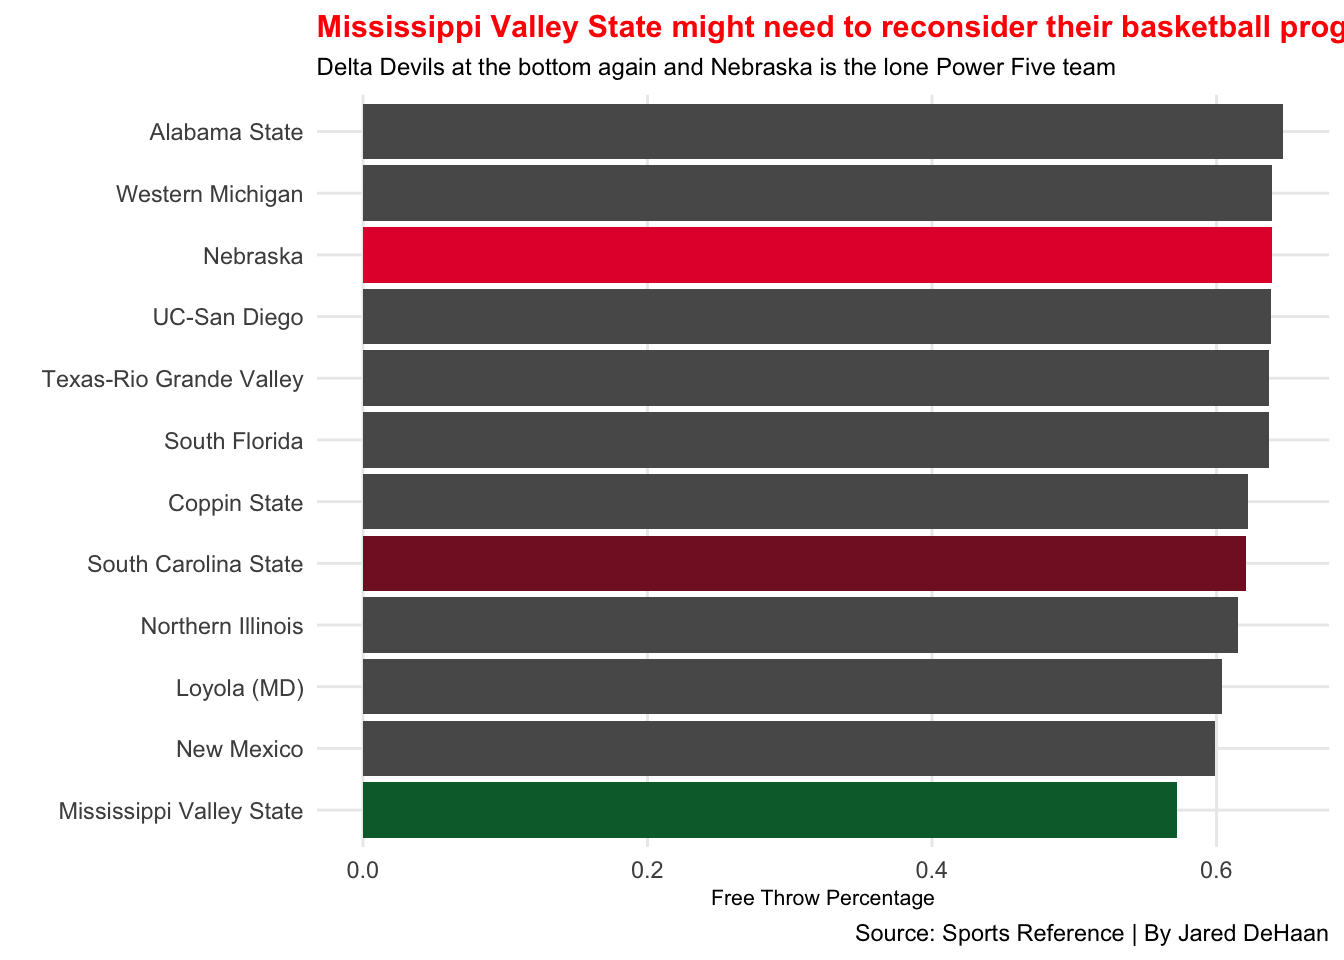
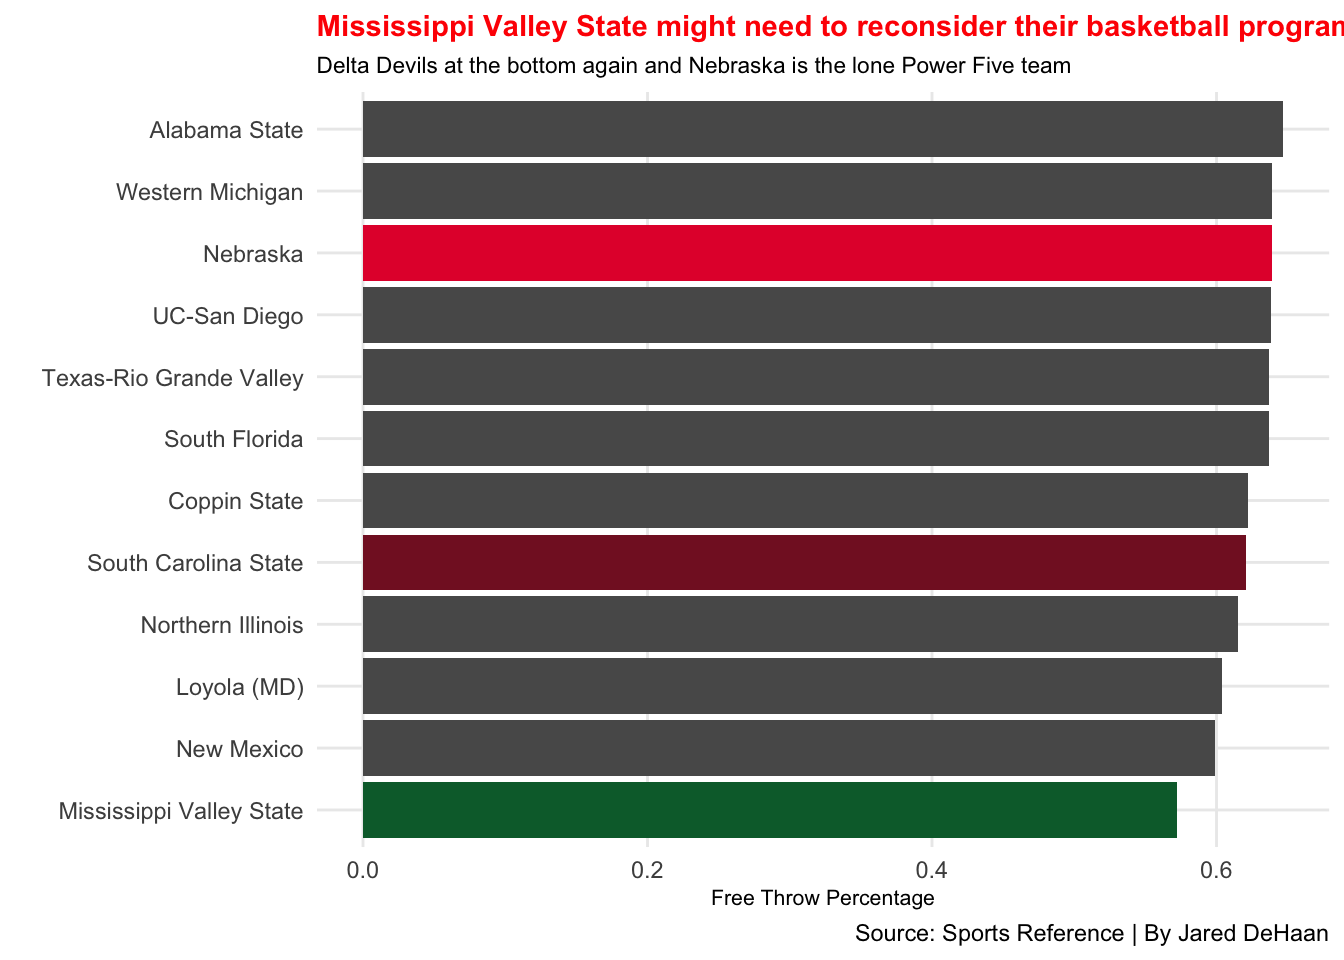
yo

diff --git a/2021/04/21/who-was-the-worst-offensive-college-basketball-team-this-season/index.html b/2021/04/21/who-was-the-worst-offensive-college-basketball-team-this-season/index.html
@@ -184,7 +184,7 @@ library(gt)</code></pre>
   font-family: -apple-system, BlinkMacSystemFont, 'Segoe UI', Roboto, Oxygen, Ubuntu, Cantarell, 'Helvetica Neue', 'Fira Sans', 'Droid Sans', Arial, sans-serif;
 }
 
-#otxjezymuu .gt_table {
+#rtiglfirsu .gt_table {
   display: table;
   border-collapse: collapse;
   margin-left: auto;
@@ -209,7 +209,7 @@ library(gt)</code></pre>
   border-left-color: #D3D3D3;
 }
 
-#otxjezymuu .gt_heading {
+#rtiglfirsu .gt_heading {
   background-color: #FFFFFF;
   text-align: center;
   border-bottom-color: #FFFFFF;
@@ -221,7 +221,7 @@ library(gt)</code></pre>
   border-right-color: #D3D3D3;
 }
 
-#otxjezymuu .gt_title {
+#rtiglfirsu .gt_title {
   color: #333333;
   font-size: 125%;
   font-weight: initial;
@@ -231,7 +231,7 @@ library(gt)</code></pre>
   border-bottom-width: 0;
 }
 
-#otxjezymuu .gt_subtitle {
+#rtiglfirsu .gt_subtitle {
   color: #333333;
   font-size: 85%;
   font-weight: initial;
@@ -241,13 +241,13 @@ library(gt)</code></pre>
   border-top-width: 0;
 }
 
-#otxjezymuu .gt_bottom_border {
+#rtiglfirsu .gt_bottom_border {
   border-bottom-style: solid;
   border-bottom-width: 2px;
   border-bottom-color: #D3D3D3;
 }
 
-#otxjezymuu .gt_col_headings {
+#rtiglfirsu .gt_col_headings {
   border-top-style: solid;
   border-top-width: 2px;
   border-top-color: #D3D3D3;
@@ -262,7 +262,7 @@ library(gt)</code></pre>
   border-right-color: #D3D3D3;
 }
 
-#otxjezymuu .gt_col_heading {
+#rtiglfirsu .gt_col_heading {
   color: #333333;
   background-color: #FFFFFF;
   font-size: 100%;
@@ -282,7 +282,7 @@ library(gt)</code></pre>
   overflow-x: hidden;
 }
 
-#otxjezymuu .gt_column_spanner_outer {
+#rtiglfirsu .gt_column_spanner_outer {
   color: #333333;
   background-color: #FFFFFF;
   font-size: 100%;
@@ -294,15 +294,15 @@ library(gt)</code></pre>
   padding-right: 4px;
 }
 
-#otxjezymuu .gt_column_spanner_outer:first-child {
+#rtiglfirsu .gt_column_spanner_outer:first-child {
   padding-left: 0;
 }
 
-#otxjezymuu .gt_column_spanner_outer:last-child {
+#rtiglfirsu .gt_column_spanner_outer:last-child {
   padding-right: 0;
 }
 
-#otxjezymuu .gt_column_spanner {
+#rtiglfirsu .gt_column_spanner {
   border-bottom-style: solid;
   border-bottom-width: 2px;
   border-bottom-color: #D3D3D3;
@@ -314,7 +314,7 @@ library(gt)</code></pre>
   width: 100%;
 }
 
-#otxjezymuu .gt_group_heading {
+#rtiglfirsu .gt_group_heading {
   padding: 8px;
   color: #333333;
   background-color: #FFFFFF;
@@ -336,7 +336,7 @@ library(gt)</code></pre>
   vertical-align: middle;
 }
 
-#otxjezymuu .gt_empty_group_heading {
+#rtiglfirsu .gt_empty_group_heading {
   padding: 0.5px;
   color: #333333;
   background-color: #FFFFFF;
@@ -351,15 +351,15 @@ library(gt)</code></pre>
   vertical-align: middle;
 }
 
-#otxjezymuu .gt_from_md > :first-child {
+#rtiglfirsu .gt_from_md > :first-child {
   margin-top: 0;
 }
 
-#otxjezymuu .gt_from_md > :last-child {
+#rtiglfirsu .gt_from_md > :last-child {
   margin-bottom: 0;
 }
 
-#otxjezymuu .gt_row {
+#rtiglfirsu .gt_row {
   padding-top: 8px;
   padding-bottom: 8px;
   padding-left: 5px;
@@ -378,7 +378,7 @@ library(gt)</code></pre>
   overflow-x: hidden;
 }
 
-#otxjezymuu .gt_stub {
+#rtiglfirsu .gt_stub {
   color: #333333;
   background-color: #FFFFFF;
   font-size: 100%;
@@ -390,7 +390,7 @@ library(gt)</code></pre>
   padding-left: 12px;
 }
 
-#otxjezymuu .gt_summary_row {
+#rtiglfirsu .gt_summary_row {
   color: #333333;
   background-color: #FFFFFF;
   text-transform: inherit;
@@ -400,7 +400,7 @@ library(gt)</code></pre>
   padding-right: 5px;
 }
 
-#otxjezymuu .gt_first_summary_row {
+#rtiglfirsu .gt_first_summary_row {
   padding-top: 8px;
   padding-bottom: 8px;
   padding-left: 5px;
@@ -410,7 +410,7 @@ library(gt)</code></pre>
   border-top-color: #D3D3D3;
 }
 
-#otxjezymuu .gt_grand_summary_row {
+#rtiglfirsu .gt_grand_summary_row {
   color: #333333;
   background-color: #FFFFFF;
   text-transform: inherit;
@@ -420,7 +420,7 @@ library(gt)</code></pre>
   padding-right: 5px;
 }
 
-#otxjezymuu .gt_first_grand_summary_row {
+#rtiglfirsu .gt_first_grand_summary_row {
   padding-top: 8px;
   padding-bottom: 8px;
   padding-left: 5px;
@@ -430,11 +430,11 @@ library(gt)</code></pre>
   border-top-color: #D3D3D3;
 }
 
-#otxjezymuu .gt_striped {
+#rtiglfirsu .gt_striped {
   background-color: rgba(128, 128, 128, 0.05);
 }
 
-#otxjezymuu .gt_table_body {
+#rtiglfirsu .gt_table_body {
   border-top-style: solid;
   border-top-width: 2px;
   border-top-color: #D3D3D3;
@@ -443,7 +443,7 @@ library(gt)</code></pre>
   border-bottom-color: #D3D3D3;
 }
 
-#otxjezymuu .gt_footnotes {
+#rtiglfirsu .gt_footnotes {
   color: #333333;
   background-color: #FFFFFF;
   border-bottom-style: none;
@@ -457,13 +457,13 @@ library(gt)</code></pre>
   border-right-color: #D3D3D3;
 }
 
-#otxjezymuu .gt_footnote {
+#rtiglfirsu .gt_footnote {
   margin: 0px;
   font-size: 90%;
   padding: 4px;
 }
 
-#otxjezymuu .gt_sourcenotes {
+#rtiglfirsu .gt_sourcenotes {
   color: #333333;
   background-color: #FFFFFF;
   border-bottom-style: none;
@@ -477,46 +477,46 @@ library(gt)</code></pre>
   border-right-color: #D3D3D3;
 }
 
-#otxjezymuu .gt_sourcenote {
+#rtiglfirsu .gt_sourcenote {
   font-size: 90%;
   padding: 4px;
 }
 
-#otxjezymuu .gt_left {
+#rtiglfirsu .gt_left {
   text-align: left;
 }
 
-#otxjezymuu .gt_center {
+#rtiglfirsu .gt_center {
   text-align: center;
 }
 
-#otxjezymuu .gt_right {
+#rtiglfirsu .gt_right {
   text-align: right;
   font-variant-numeric: tabular-nums;
 }
 
-#otxjezymuu .gt_font_normal {
+#rtiglfirsu .gt_font_normal {
   font-weight: normal;
 }
 
-#otxjezymuu .gt_font_bold {
+#rtiglfirsu .gt_font_bold {
   font-weight: bold;
 }
 
-#otxjezymuu .gt_font_italic {
+#rtiglfirsu .gt_font_italic {
   font-style: italic;
 }
 
-#otxjezymuu .gt_super {
+#rtiglfirsu .gt_super {
   font-size: 65%;
 }
 
-#otxjezymuu .gt_footnote_marks {
+#rtiglfirsu .gt_footnote_marks {
   font-style: italic;
   font-size: 65%;
 }
 </style>
-<div id="otxjezymuu" style="overflow-x:auto;overflow-y:auto;width:auto;height:auto;"><table class="gt_table">
+<div id="rtiglfirsu" style="overflow-x:auto;overflow-y:auto;width:auto;height:auto;"><table class="gt_table">
   <thead class="gt_header">
     <tr>
       <th colspan="6" class="gt_heading gt_title gt_font_normal" style="color: green; text-align: left; font-weight: bold;">Mississippi Valley State had little going for them this season</th>
@@ -651,9 +651,9 @@ geom_point(color=&quot;grey&quot;) +
   labs(x=&quot;Wins&quot;, y=&quot;Average Field Goal Pct&quot;, title=&quot;Mississippi Valley State was BAD at shooting the basketball during the 2020-2021 season&quot;, subtitle=&quot;The Delta Devils were colder than a Dairy Queen blizzard this season&quot;, caption=&quot;Source: Sports Reference | By Jared DeHaan&quot;) + 
   theme_minimal() + 
   theme(
-    plot.title = element_text(size = 12.6, face = &quot;bold&quot;),
-    axis.title = element_text(size = 9), 
-    plot.subtitle = element_text(size=10), 
+    plot.title = element_text(size = 11.5, face = &quot;bold&quot;),
+    axis.title = element_text(size = 8), 
+    plot.subtitle = element_text(size=9), 
     panel.grid.minor = element_blank()
     ) +
   geom_point(data=msvalleystate, aes(x=`OverallW`, y=`FG%`), color=&quot;#046A38&quot;) + 
@@ -686,9 +686,9 @@ nebft &lt;- badftshootingteams %&gt;%
 labs(x=&quot;&quot;, y=&quot;Free Throw Percentage&quot;, title=&quot;Mississippi Valley State might need to reconsider their basketball program&quot;, subtitle=&quot;Delta Devils at the bottom again and Nebraska is the lone Power Five team&quot;, caption=&quot;Source: Sports Reference | By Jared DeHaan&quot;) + 
   theme_minimal() + 
   theme(
-    plot.title = element_text(size = 11.5, face = &quot;bold&quot;, color = &quot;red&quot;),
+    plot.title = element_text(size = 11, face = &quot;bold&quot;, color = &quot;red&quot;),
     axis.title = element_text(size = 8), 
-    plot.subtitle = element_text(size=9), 
+    plot.subtitle = element_text(size=8.5), 
     panel.grid.minor = element_blank()
     ) +
   coord_flip()</code></pre>
